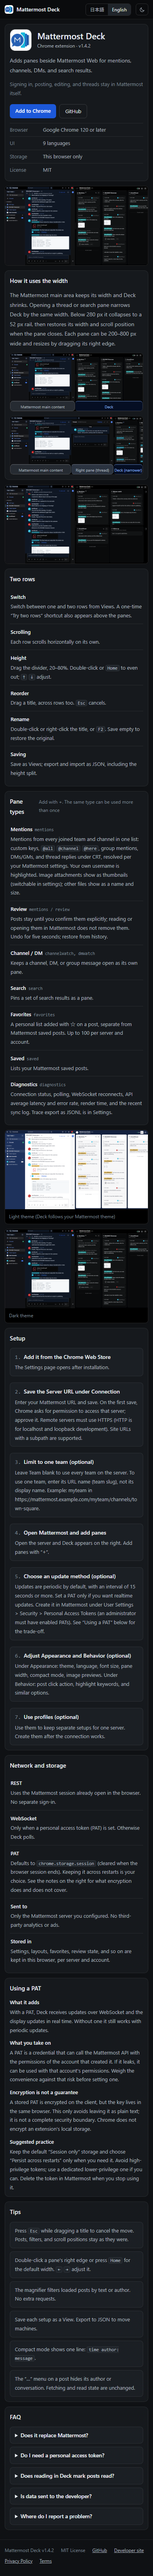
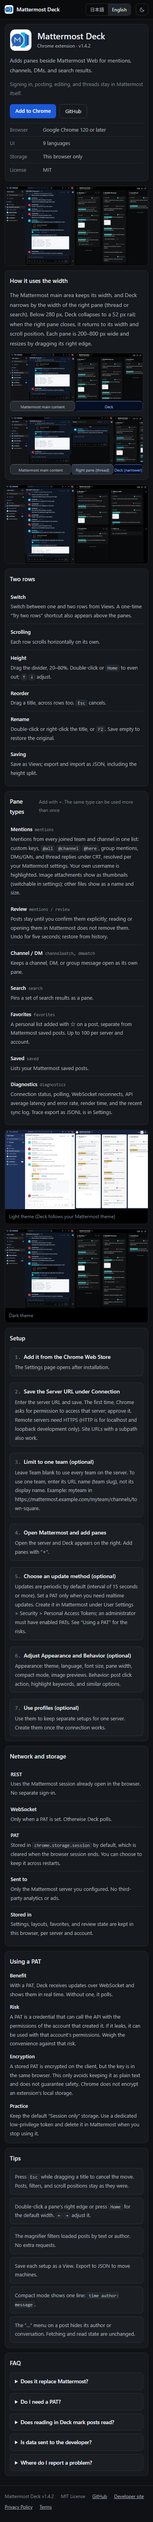
update: tighten wording in setup, PAT and layout text

Changed region(s): [[0.0308, 0.0, 0.9846, 0.9972]]

diff --git a/mock/deck-tone.html b/mock/deck-tone.html
@@ -70,8 +70,7 @@
   <section id="layout" class="pane">
     <h2><span lang="ja">画面の占め方</span><span lang="en">How it uses the width</span></h2>
     <p class="lead">
-      <span lang="ja">Mattermost の本文幅は変えず、Deck が縮みます。スレッドや検索の右ペインを開くと、その幅の分だけ Deck が狭くなります。残りが 280px を下回ると 52px のレールに折り畳み、右ペインを閉じると指定幅とスクロール位置に戻ります。ペイン幅は 200〜800px の範囲で、右端のドラッグで変えられます。</span>
-      <span lang="en">The Mattermost main area keeps its width and Deck shrinks. Opening a thread or search pane narrows Deck by the same width. Below 280 px it collapses to a 52 px rail, then restores its width and scroll position when the pane closes. Each pane can be 200–800 px wide and resizes by dragging its right edge.</span>
+      <span lang="ja">Mattermost の本文幅は変わらず、右ペイン（スレッドや検索）を開いた分だけ Deck が狭くなります。Deck の幅が 280px を下回ると 52px のレールに折り畳み、右ペインを閉じると元の幅とスクロール位置に戻ります。各ペインの幅は 200〜800px で、右端のドラッグで変えます。</span><span lang="en">The Mattermost main area keeps its width, and Deck narrows by the width of the right pane (thread or search). Below 280 px, Deck collapses to a 52 px rail; when the right pane closes, it returns to its width and scroll position. Each pane is 200–800 px wide and resizes by dragging its right edge.</span>
     </p>
     <div class="stack">
       <figure class="shot annotated">
@@ -133,12 +132,12 @@
     <h2><span lang="ja">設定の手順</span><span lang="en">Setup</span></h2>
     <div class="steps">
       <div class="card"><b><span lang="ja">Chrome ウェブストアから追加</span><span lang="en">Add it from the Chrome Web Store</span></b><p><span lang="ja">インストールすると設定画面が開きます。</span><span lang="en">The Settings page opens after installation.</span></p></div>
-      <div class="card"><b><span lang="ja">「接続」で Server URL を保存</span><span lang="en">Save the Server URL under Connection</span></b><p><span lang="ja">Mattermost の URL を入力して保存します。初回の保存時に、そのサーバーへのアクセス許可を Chrome が求めるので承認します。リモートのサーバーは HTTPS が必要です（HTTP は localhost などの開発用のみ）。サブパス付きの Site URL にも対応します。</span><span lang="en">Enter your Mattermost URL and save. On the first save, Chrome asks for permission to access that server; approve it. Remote servers must use HTTPS (HTTP is for localhost and loopback development). Site URLs with a subpath are supported.</span></p></div>
-      <div class="card"><b><span lang="ja">チームを絞る（任意）</span><span lang="en">Limit to one team (optional)</span></b><p><span lang="ja">「Team」を空欄にするとサーバー上のすべてのチームが対象です。1 つに絞る場合は、表示名ではなく URL の名前（team slug）を入力します。例: https://mattermost.example.com/myteam/channels/town-square の myteam。</span><span lang="en">Leave Team blank to use every team on the server. To use one team, enter its URL name (team slug), not its display name. Example: myteam in https://mattermost.example.com/myteam/channels/town-square.</span></p></div>
-      <div class="card"><b><span lang="ja">Mattermost を開いてペインを足す</span><span lang="en">Open Mattermost and add panes</span></b><p><span lang="ja">サーバーを開くと、右側に Deck が表示されます。「＋」からペインを追加します。</span><span lang="en">Open the server and Deck appears on the right. Add panes with “+”.</span></p></div>
-      <div class="card"><b><span lang="ja">「更新方法」を選ぶ（任意）</span><span lang="en">Choose an update method (optional)</span></b><p><span lang="ja">既定は定期更新で、間隔は 15 秒以上で設定します。リアルタイムにしたい場合だけ PAT を設定します。PAT は Mattermost の User Settings > Security > Personal Access Tokens で作成します（管理者側で PAT が有効になっている必要があります）。利便性とリスクは下の「PAT の扱い」を確認してください。</span><span lang="en">Updates are periodic by default, with an interval of 15 seconds or more. Set a PAT only if you want realtime updates. Create it in Mattermost under User Settings > Security > Personal Access Tokens (an administrator must have enabled PATs). See “Using a PAT” below for the trade-off.</span></p></div>
-      <div class="card"><b><span lang="ja">外観・動作を調整する（任意）</span><span lang="en">Adjust Appearance and Behavior (optional)</span></b><p><span lang="ja">「外観」でテーマ、言語、文字サイズ、ペイン幅、コンパクト表示、画像プレビューなどを、「動作」で投稿クリック時の動作やハイライトするキーワードなどを設定します。</span><span lang="en">Under Appearance: theme, language, font size, pane width, compact mode, image previews. Under Behavior: post click action, highlight keywords, and similar options.</span></p></div>
-      <div class="card"><b><span lang="ja">プロファイルを使う（任意）</span><span lang="en">Use profiles (optional)</span></b><p><span lang="ja">同じサーバーで用途を分けたいときに使います。接続が動くことを確認してから作成してください。</span><span lang="en">Use them to keep separate setups for one server. Create them after the connection works.</span></p></div>
+      <div class="card"><b><span lang="ja">「接続」で Server URL を保存</span><span lang="en">Save the Server URL under Connection</span></b><p><span lang="ja">Server URL を入力して保存します。初回は、そのサーバーへのアクセス許可を Chrome が求めるので承認します。リモートのサーバーは HTTPS が必要です（HTTP は localhost などの開発用のみ）。サブパス付きの Site URL も使えます。</span><span lang="en">Enter the server URL and save. The first time, Chrome asks for permission to access that server; approve it. Remote servers need HTTPS (HTTP is for localhost and loopback development only). Site URLs with a subpath also work.</span></p></div>
+      <div class="card"><b><span lang="ja">チームを絞る（任意）</span><span lang="en">Limit to one team (optional)</span></b><p><span lang="ja">Team を空欄にすると、サーバー上の全チームが対象です。1 つに絞るときは、表示名ではなく URL の名前（team slug）を入れます。例: https://mattermost.example.com/myteam/channels/town-square の myteam。</span><span lang="en">Leave Team blank to use every team on the server. To use one team, enter its URL name (team slug), not its display name. Example: myteam in https://mattermost.example.com/myteam/channels/town-square.</span></p></div>
+      <div class="card"><b><span lang="ja">Mattermost を開いてペインを足す</span><span lang="en">Open Mattermost and add panes</span></b><p><span lang="ja">サーバーを開くと右側に Deck が出ます。「＋」からペインを追加します。</span><span lang="en">Open the server and Deck appears on the right. Add panes with “+”.</span></p></div>
+      <div class="card"><b><span lang="ja">「更新方法」を選ぶ（任意）</span><span lang="en">Choose an update method (optional)</span></b><p><span lang="ja">既定は定期更新です（間隔は 15 秒以上）。リアルタイム更新が必要なときだけ PAT を設定します。PAT は Mattermost の User Settings > Security > Personal Access Tokens で作成します。管理者側で PAT を有効にしておく必要があります。リスクは「PAT の扱い」を参照してください。</span><span lang="en">Updates are periodic by default (interval of 15 seconds or more). Set a PAT only when you need realtime updates. Create it in Mattermost under User Settings > Security > Personal Access Tokens; an administrator must have enabled PATs. See “Using a PAT” for the risks.</span></p></div>
+      <div class="card"><b><span lang="ja">外観・動作を調整する（任意）</span><span lang="en">Adjust Appearance and Behavior (optional)</span></b><p><span lang="ja">外観: テーマ、言語、文字サイズ、ペイン幅、コンパクト表示、画像プレビューなど。動作: 投稿クリック時の動作、ハイライトするキーワードなど。</span><span lang="en">Appearance: theme, language, font size, pane width, compact mode, image previews. Behavior: post click action, highlight keywords, and similar options.</span></p></div>
+      <div class="card"><b><span lang="ja">プロファイルを使う（任意）</span><span lang="en">Use profiles (optional)</span></b><p><span lang="ja">同じサーバーで用途を分けたいときに使います。接続が動くことを確認してから作成します。</span><span lang="en">Use them to keep separate setups for one server. Create them once the connection works.</span></p></div>
     </div>
   </section>
 
@@ -147,19 +146,19 @@
       <h2><span lang="ja">通信と保存</span><span lang="en">Network and storage</span></h2>
       <table class="list">
       <tr><td class="k">REST</td><td><span lang="ja">ブラウザーで開いている Mattermost のセッションを使います。Deck 用の追加ログインはありません。</span><span lang="en">Uses the Mattermost session already open in the browser. No separate sign-in.</span></td></tr>
-      <tr><td class="k">WebSocket</td><td><span lang="ja">Personal Access Token（PAT）を設定したときだけ有効です。未設定なら定期取得で更新します。</span><span lang="en">Only when a personal access token (PAT) is set. Otherwise Deck polls.</span></td></tr>
-      <tr><td class="k">PAT</td><td><span lang="ja">既定は <code>chrome.storage.session</code>（ブラウザーを閉じると消えます）。再起動後も保持するかは自分で選びます。暗号化については右の説明を確認してください。</span><span lang="en">Defaults to <code>chrome.storage.session</code> (cleared when the browser session ends). Keeping it across restarts is your choice. See the notes on the right for what encryption does and does not cover.</span></td></tr>
+      <tr><td class="k">WebSocket</td><td><span lang="ja">PAT を設定したときだけ有効です。未設定なら定期取得で更新します。</span><span lang="en">Only when a PAT is set. Otherwise Deck polls.</span></td></tr>
+      <tr><td class="k">PAT</td><td><span lang="ja">既定は <code>chrome.storage.session</code> で、ブラウザーを閉じると消えます。再起動後も保持するかは選べます。</span><span lang="en">Stored in <code>chrome.storage.session</code> by default, which is cleared when the browser session ends. You can choose to keep it across restarts.</span></td></tr>
       <tr><td class="k"><span lang="ja">送信先</span><span lang="en">Sent to</span></td><td><span lang="ja">設定した Mattermost サーバーのみ。第三者の analytics や広告はありません。</span><span lang="en">Only the Mattermost server you configured. No third-party analytics or ads.</span></td></tr>
-      <tr><td class="k"><span lang="ja">保存先</span><span lang="en">Stored in</span></td><td><span lang="ja">設定、レイアウト、お気に入り、確認状態などはこのブラウザー内に、サーバーとアカウントごとに保存します。</span><span lang="en">Settings, layouts, favorites, review state, and so on are kept in this browser, per server and account.</span></td></tr>
+      <tr><td class="k"><span lang="ja">保存先</span><span lang="en">Stored in</span></td><td><span lang="ja">設定、レイアウト、お気に入り、確認状態などは、このブラウザー内にサーバーとアカウントごとに保存します。</span><span lang="en">Settings, layouts, favorites, and review state are kept in this browser, per server and account.</span></td></tr>
       </table>
     </div>
     <div class="pane">
       <h2><span lang="ja">PAT の扱い</span><span lang="en">Using a PAT</span></h2>
       <div class="notes">
-      <p><b><span lang="ja">得られるもの</span><span lang="en">What it adds</span></b><span lang="ja">PAT を設定すると WebSocket で更新を受け取り、表示がリアルタイムになります。未設定のままでも定期更新で使えます。</span><span lang="en">With a PAT, Deck receives updates over WebSocket and the display updates in real time. Without one it still works with periodic updates.</span></p>
-      <p><b><span lang="ja">引き換えに負うもの</span><span lang="en">What you take on</span></b><span lang="ja">PAT は、発行したアカウントの権限で Mattermost の API を使える認証情報です。漏えいした場合、そのアカウントの権限で操作される可能性があります。利便性とセキュリティリスクを比べたうえで設定してください。</span><span lang="en">A PAT is a credential that can call the Mattermost API with the permissions of the account that created it. If it leaks, it can be used with that account's permissions. Weigh the convenience against that risk before setting one.</span></p>
-      <p><b><span lang="ja">暗号化は安全を保証しません</span><span lang="en">Encryption is not a guarantee</span></b><span lang="ja">保存する PAT はクライアント側で暗号化しますが、鍵も同じブラウザー内にあります。これは平文のまま残さないための最低限の措置で、完全な保護ではありません。拡張機能のローカル保存領域は Chrome が暗号化しません。</span><span lang="en">A stored PAT is encrypted on the client, but the key lives in the same browser. This only avoids leaving it as plain text; it is not a complete security boundary. Chrome does not encrypt an extension's local storage.</span></p>
-      <p><b><span lang="ja">おすすめの使い方</span><span lang="en">Suggested practice</span></b><span lang="ja">保存方法は既定の「セッションのみ」にし、「再起動後も保持」は必要なときだけ選びます。高い権限のトークンは避け、できれば専用の低権限のトークンを使ってください。使わなくなったら Mattermost 側でトークンを削除します。</span><span lang="en">Keep the default “Session only” storage and choose “Persist across restarts” only when you need it. Avoid high-privilege tokens; use a dedicated lower-privilege one if you can. Delete the token in Mattermost when you stop using it.</span></p>
+      <p><b><span lang="ja">利点</span><span lang="en">Benefit</span></b><span lang="ja">PAT を設定すると WebSocket で更新を受け取り、リアルタイムに表示します。未設定でも定期更新で使えます。</span><span lang="en">With a PAT, Deck receives updates over WebSocket and shows them in real time. Without one, it polls.</span></p>
+      <p><b><span lang="ja">リスク</span><span lang="en">Risk</span></b><span lang="ja">PAT は、発行したアカウントの権限で API を呼べる認証情報です。漏えいすると、そのアカウントの権限で操作される可能性があります。利便性とリスクを比べて判断してください。</span><span lang="en">A PAT is a credential that can call the API with the permissions of the account that created it. If it leaks, it can be used with that account's permissions. Weigh the convenience against that risk.</span></p>
+      <p><b><span lang="ja">暗号化</span><span lang="en">Encryption</span></b><span lang="ja">保存時にクライアント側で暗号化しますが、鍵も同じブラウザー内にあります。平文で残さないための最低限の措置で、安全を保証するものではありません。拡張機能のローカル保存領域は Chrome が暗号化しません。</span><span lang="en">A stored PAT is encrypted on the client, but the key is in the same browser. This only avoids keeping it as plain text and does not guarantee safety. Chrome does not encrypt an extension's local storage.</span></p>
+      <p><b><span lang="ja">運用</span><span lang="en">Practice</span></b><span lang="ja">保存方法は既定の「セッションのみ」を推奨します。専用の低権限トークンを使い、不要になったら Mattermost で削除します。</span><span lang="en">Keep the default “Session only” storage. Use a dedicated low-privilege token and delete it in Mattermost when you stop using it.</span></p>
       </div>
     </div>
   </section>
@@ -179,7 +178,7 @@
   <section id="faq" class="pane">
     <h2>FAQ</h2>
     <details><summary><span lang="ja">Mattermost の代わりに使うものですか</span><span lang="en">Does it replace Mattermost?</span></summary><p><span lang="ja">いいえ。ログイン、投稿、編集、スレッド操作は Mattermost 本体のままです。</span><span lang="en">No. Signing in, posting, editing, and threads stay in Mattermost.</span></p></details>
-    <details><summary><span lang="ja">Personal Access Token は必要ですか</span><span lang="en">Do I need a personal access token?</span></summary><p><span lang="ja">必要ありません。未設定でも定期取得で更新します。設定すると WebSocket によるリアルタイム更新になりますが、トークンの管理というリスクを伴います。詳しくは「PAT の扱い」を参照してください。</span><span lang="en">No. Without one Deck polls. A PAT enables realtime updates over WebSocket but means managing a credential. See “Using a PAT”.</span></p></details>
+    <details><summary><span lang="ja">PAT は必要ですか</span><span lang="en">Do I need a PAT?</span></summary><p><span lang="ja">必要ありません。未設定なら定期取得で更新します。設定するとリアルタイム更新になりますが、トークンの管理が必要になります。「PAT の扱い」を参照してください。</span><span lang="en">No. Without one, Deck polls. A PAT enables realtime updates but means managing a token. See “Using a PAT”.</span></p></details>
     <details><summary><span lang="ja">Deck で読むと Mattermost 側も既読になりますか</span><span lang="en">Does reading in Deck mark posts read?</span></summary><p><span lang="ja">なりません。「確認済みにする」も Mattermost の既読とは別の状態です。</span><span lang="en">No. “Confirm” is also separate from Mattermost read state.</span></p></details>
     <details><summary><span lang="ja">データは開発者のサーバーへ送られますか</span><span lang="en">Is data sent to the developer?</span></summary><p><span lang="ja">送られません。通信するのは設定済みの Mattermost サーバーだけです。</span><span lang="en">No. Deck talks only to the Mattermost server you configured.</span></p></details>
     <details><summary><span lang="ja">不具合の報告はどこへ</span><span lang="en">Where do I report a problem?</span></summary><p><span lang="ja">GitHub Issues で受け付けています。</span><span lang="en">GitHub Issues.</span></p></details>
